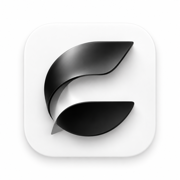
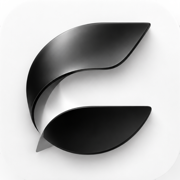
Update Premium pages and cropped Cally brand assets

diff --git a/privacy.html b/privacy.html
@@ -4,10 +4,10 @@
   <meta charset="utf-8">
   <meta name="viewport" content="width=device-width, initial-scale=1">
   <meta name="theme-color" content="#f7f7f5">
-  <meta name="description" content="How the Cally iPhone app handles your data: what your account stores, where it’s kept, who processes it, your rights and how to delete it. No ads, no tracking.">
+  <meta name="description" content="How Cally handles accounts, personal entries, optional Together groups, Premium purchases, Google ads, support correspondence and your privacy choices.">
   <title>Privacy Policy · Cally</title>
-  <link rel="icon" type="image/png" href="assets/favicon.png">
-  <link rel="apple-touch-icon" href="assets/apple-touch-icon.png">
+  <link rel="icon" type="image/png" href="assets/favicon-tile.png">
+  <link rel="apple-touch-icon" href="assets/cally-touch-icon.png">
   <link rel="stylesheet" href="assets/styles.css">
   <link rel="stylesheet" href="assets/brand.css">
   <link rel="manifest" href="site.webmanifest">
@@ -15,18 +15,20 @@
 </head>
 <body class="brand-refresh">
   <a class="skip-link" href="#main">Skip to content</a>
-  <header class="site-header"><div class="container nav"><a class="brand" href="index.html" aria-label="Cally home"><img src="assets/cally-icon.png" width="37" height="37" alt=""><span>CALLY</span></a><nav class="nav-links" aria-label="Main navigation"><a href="index.html#tour">The app</a><a href="privacy.html" aria-current="page">Privacy</a><a href="support.html">Support</a><a class="nav-contact" href="index.html#tour">Explore Cally <span aria-hidden="true">↗</span></a></nav></div></header>
+  <header class="site-header"><div class="container nav"><a class="brand" href="index.html" aria-label="Cally home"><img src="assets/cally-logo.png" width="37" height="37" alt=""><span>CALLY</span></a><nav class="nav-links" aria-label="Main navigation"><a href="index.html#tour">The app</a><a href="privacy.html" aria-current="page">Privacy</a><a href="support.html">Support</a><a class="nav-contact" href="index.html#tour">Explore Cally <span aria-hidden="true">↗</span></a></nav></div></header>
   <main class="container legal-shell" id="main">
-    <aside class="legal-aside"><p class="eyebrow">Your privacy</p><nav aria-label="On this page"><a href="#who-i-am">Who I am</a><a href="#what-s-stored-with-your-account">What’s stored with your account</a><a href="#what-stays-on-your-iphone">What stays on your iPhone</a><a href="#where-it-s-stored">Where it’s stored</a><a href="#services-cally-uses">Services Cally uses</a><a href="#how-it-s-used">How it’s used</a><a href="#who-can-see-it">Who can see it</a><a href="#icloud-backup">iCloud backup</a><a href="#face-id-and-passcode-lock">Face ID and passcode lock</a><a href="#exported-backups">Exported backups</a><a href="#deleting-your-data">Deleting your data</a><a href="#your-rights">Your rights</a><a href="#children">Children</a><a href="#apple-and-this-website">Apple and this website</a><a href="#changes">Changes</a><a href="#contact">Contact</a></nav><a class="back-link" href="index.html">← Back to Cally</a></aside>
+    <aside class="legal-aside"><p class="eyebrow">Your privacy</p><nav aria-label="On this page"><a href="#who-i-am">Who I am</a><a href="#what-s-stored-with-your-account">What’s stored with your account</a><a href="#what-stays-on-your-iphone">What stays on your iPhone</a><a href="#where-it-s-stored">Where it’s stored</a><a href="#services-cally-uses">Services Cally uses</a><a href="#ads">Ads and your choices</a><a href="#purchases">Purchases</a><a href="#how-it-s-used">How it’s used</a><a href="#who-can-see-it">Who can see it</a><a href="#icloud-backup">iCloud backup</a><a href="#face-id-and-passcode-lock">Face ID and passcode lock</a><a href="#exported-backups">Exported backups</a><a href="#deleting-your-data">Deleting your data</a><a href="#your-rights">Your rights</a><a href="#children">Children</a><a href="#apple-and-this-website">Apple and this website</a><a href="#changes">Changes</a><a href="#contact">Contact</a></nav><a class="back-link" href="index.html">← Back to Cally</a></aside>
     <div class="legal-main">
   <h1>Privacy Policy</h1>
-  <p class="meta">Effective October 31, 2026</p>
+  <p class="meta">Effective November 1, 2026</p>
 
   <div class="summary">
     <h2 class="eyebrow">In short</h2>
     <ul>
       <li>You sign in so your entries are saved to your account and sync across your iPhones.</li>
-      <li>Your account data is used for accounts, sync and security. No ads, no tracking, never sold.</li>
+      <li>Your personal entries are used for your account and sync. They are not sent to advertisers or sold.</li>
+      <li>The free version shows Google ads. Premium removes ads. Google processes device, advertising and diagnostic data as described below.</li>
+      <li>Together shares only the group information you choose to add, with people in that group.</li>
       <li>You can delete your account and all your entries anytime in Settings.</li>
     </ul>
   </div>
@@ -46,7 +48,9 @@
         <li><b>Your name</b>, only if Apple (on your first sign-in) or Google provides it.</li>
         <li><b>Your account ID</b> and which sign-in method you used: Apple, Google or email.</li>
         <li><b>Your entries:</b> the date, the amount, whether it’s expected income, unexpected income or an expense, and any category, income source or payment method you choose. The server also records when each entry was added and last changed, and its order within the day.</li>
-        <li><b>Your settings:</b> your currency and your list of income sources.</li>
+        <li><b>Your settings:</b> your currency, income sources, custom expense categories, and any monthly or category budgets you set.</li>
+        <li><b>Together, if you use it:</b> the group’s name, whether it is a shared budget or savings goal, its target amount and currency, invite code, memberships and chosen display names, and the date, amount, optional note and author of each group entry. Group members can also see each member’s Premium status.</li>
+        <li><b>Premium, if you subscribe:</b> the subscription product, renewal or expiry information, and App Store transaction identifiers. A purchase carries your Cally account ID so the server can link the subscription to your account. Apple handles billing; Cally does not receive your card details.</li>
       </ul>
       <p>The sign-in system also keeps a few details it needs to run your account:</p>
       <ul>
@@ -56,24 +60,26 @@
         <li>If you sign in with Apple, a token from Apple, used only to revoke Cally’s access if you delete your account.</li>
       </ul>
       <p>For security, the sign-in system and Supabase also keep logs, such as IP addresses and request times. Cally schedules its sign-in audit records for deletion daily once they are more than 7 days old, normally removing them within 8 days. When you delete your account, Cally also requests deletion of your associated sign-in audit records; cleanup failures can delay removal. Supabase’s other operational logs follow its platform retention settings.</p>
-      <p>Cally never asks for a password, your phone number, location, contacts, photos or bank details.</p>
+      <p>Cally does not ask for a password, your phone number, contacts, photos, bank details or permission to access your location. Google’s ad software may estimate a general area from an IP address, as explained below.</p>
     </section>
 
     <section id="what-stays-on-your-iphone">
       <h2>What stays on your iPhone</h2>
       <ul>
         <li>Whether the Face ID or passcode lock is on.</li>
-        <li>When you last exported a backup.</li>
+        <li>When you last exported a backup, and your chosen tab layout, app icon and appearance.</li>
+        <li>A cached Premium status, kept separately for your Cally account.</li>
         <li>A copy of your entries, so Cally opens and works offline. Changes you make offline sync when you’re back online.</li>
         <li>Your sign-in session, in the iPhone’s Keychain, so you stay signed in.</li>
+        <li>Google’s ad-consent settings. Google also processes the consent signals needed to honour your choices.</li>
       </ul>
-      <p>The lock setting and the export date are never sent to the server.</p>
+      <p>The lock setting, export date, tab layout and appearance choices are not sent to Cally’s server.</p>
     </section>
 
     <section id="where-it-s-stored">
       <h2>Where it’s stored</h2>
       <p>Your account and entries are stored and processed on Cally’s server, which runs on Supabase in the EU, in Frankfurt, Germany (Amazon Web Services, eu-central-1). For account storage and sync, the app connects to Cally’s Supabase project over HTTPS and requests the same region for server-function calls.</p>
-      <p>When you sign in with Apple or Google, you do it on Apple’s or Google’s own sign-in screen. The privacy policy and support links open in Safari.</p>
+      <p>The app also connects to Apple for Premium purchases and to Google’s ad and consent services in the free version. These services may process data outside the EU. When you sign in with Apple or Google, you do it on their own sign-in screens. Privacy and support links open in Safari.</p>
     </section>
 
     <section id="services-cally-uses">
@@ -81,24 +87,45 @@
       <ul>
         <li><b>Supabase</b> runs Cally’s database, sign-in and server functions, and stores your data in Frankfurt.</li>
         <li><b>Resend</b> sends the email sign-in codes, so it handles your email address.</li>
-        <li><b>Apple</b> handles Sign in with Apple, if you use it.</li>
-        <li><b>Google</b> handles Sign in with Google, if you use it.</li>
+        <li><b>Apple</b> handles Sign in with Apple and Premium billing, under <a href="https://www.apple.com/legal/privacy/" rel="noopener noreferrer">Apple’s privacy policy</a>.</li>
+        <li><b>Google</b> handles Sign in with Google and provides the Google AdMob advertising and consent software in the free version. See <a href="https://policies.google.com/privacy" rel="noopener noreferrer">Google’s privacy policy</a> and its <a href="https://developers.google.com/admob/ios/privacy/data-disclosure" rel="noopener noreferrer">ad SDK data disclosures</a>.</li>
         <li><b>ImprovMX</b> forwards messages sent to the support email address.</li>
         <li><b>Gmail, operated by Google,</b> receives and stores support correspondence.</li>
       </ul>
       <p>Some of these companies may process data outside the EU. When they do, the transfer is covered by safeguards the GDPR requires, such as the EU Standard Contractual Clauses.</p>
     </section>
 
+
+    <section id="ads">
+      <h2>Ads and your choices</h2>
+      <p>The free version can show a Google AdMob banner above the tab bar and an occasional full-screen ad after you save an entry and close the day. Full-screen ads do not appear in your first 24 hours and are limited to one every five minutes and three a day. Premium removes these ad placements.</p>
+      <ul>
+        <li><b>What Google processes.</b> Google’s ad and consent software may process your IP address and the general area it suggests, device and app information and identifiers, ads shown and tapped, product interactions, consent signals, and crash, performance and diagnostic information. Google uses this information to deliver and measure ads, operate its services and prevent fraud.</li>
+        <li><b>Your money stays out of ads.</b> Cally does not pass your personal entries, Together group entries, email address, name or Cally account ID to the ad SDK. Ads are not selected from your financial entries.</li>
+        <li><b>Non-personalized requests.</b> Cally requests non-personalized ads and does not ask for Apple’s permission to access the advertising identifier. This does not mean that the ad SDK collects no data; the processing above can still occur.</li>
+        <li><b>Your choices.</b> Where required, Google presents a consent form before ads can be requested. If Google requires a way to revisit those choices, Cally shows <b>Settings → Ad privacy choices</b>. You can change your choices there.</li>
+      </ul>
+      <p>Cally has no separate analytics service of its own. The Google SDK’s advertising and diagnostic processing follows Google’s policies and the choices available in its consent form.</p>
+    </section>
+
+    <section id="purchases">
+      <h2>Purchases and subscriptions</h2>
+      <p>Apple handles Premium payments and stores its own purchase records. Cally checks the subscription on the device and keeps a server record of its plan and validity so it can work with your Cally account on another iPhone.</p>
+      <p>A free trial is available only when Apple confirms that you are eligible. Each subscription group allows one introductory offer per person. The App Store shows the applicable price, trial and renewal terms before you confirm a purchase.</p>
+      <p>To cancel, use <b>Settings → Manage subscription</b> in Cally or your iPhone’s <b>Settings → [your name] → Subscriptions</b>. Deleting Cally or your Cally account does not cancel an Apple subscription.</p>
+    </section>
+
     <section id="how-it-s-used">
       <h2>How it’s used</h2>
-      <p>Cally uses account data to provide your account and keep your entries in sync, and security logs to protect the service. Under the GDPR, the legal basis for the account and sync is performance of a contract: Cally needs this data to provide the service you signed up for. If you contact support, I also use the information you send to answer your request.</p>
-      <p>Cally has no ads, analytics or tracking. It doesn’t profile you, doesn’t sell your data, and has no third-party SDKs for advertising or marketing.</p>
+      <p>Cally uses account data to provide your account, sync, optional Together groups and Premium access, and security logs to protect the service. Under the GDPR, the legal basis for these account services is performance of a contract: Cally needs this data to provide the features you choose to use. If you contact support, I also use the information you send to answer your request.</p>
+      <p>Google processes advertising and consent data for the free version as described above, with consent where required. Cally does not sell your personal financial entries or use them to target advertising.</p>
     </section>
 
     <section id="who-can-see-it">
       <h2>Who can see it</h2>
       <p>You, on every iPhone where you’re signed in, and anyone who can unlock and use those iPhones. To keep it from people who use your phone, turn on the lock.</p>
-      <p>No other Cally user can see your data. As the developer, I can access Cally’s server to keep it running, but I use your data only to provide your account and sync. Apart from the services above, I don’t share it with anyone.</p>
+      <p>If you create or join a Together group, its members can see that group’s details, chosen display names, membership and Premium status, and group entries. Your personal income and expense calendar and email address are not shared with the group. Share an invite code only with people you want to invite.</p>
+      <p>As the developer, I can access Cally’s server to operate and support these services. The service providers listed above process the data needed for their roles. I do not sell your account data.</p>
     </section>
 
     <section id="icloud-backup">
@@ -113,19 +140,20 @@
 
     <section id="exported-backups">
       <h2>Exported backups</h2>
-      <p>When you tap <b>Export</b> in Settings, Cally creates a JSON file with your entries and income sources and saves it wherever you choose in the Files app. The file is not encrypted. Once it’s saved, it’s yours: anyone you share it with can read it, and if you keep it in iCloud Drive or another cloud service, that service’s terms apply. <b>Import</b> reads the file you pick and adds its entries to your account, so they sync like any others.</p>
+      <p>When you tap <b>Export</b> in Settings, Cally creates a JSON file with your personal entries and settings and saves it wherever you choose in the Files app. Premium can also export your personal entries as a CSV spreadsheet. These exports do not include Together group data. Neither file is encrypted. Once it’s saved, it’s yours: anyone you share it with can read it, and if you keep it in iCloud Drive or another cloud service, that service’s terms apply. <b>Import</b> reads the file you pick and adds its entries to your account, so they sync like any others.</p>
     </section>
 
     <section id="deleting-your-data">
       <h2>Deleting your data</h2>
       <ul>
-        <li><b>Settings → Delete account</b> permanently deletes your account, entries and settings from Cally’s server, right away. Other iPhones signed in to the account are signed out the next time Cally connects on them (within an hour while it’s open), and their copies are deleted then. If you signed in with Apple, Apple asks you to confirm once more. Cally then attempts to revoke its Sign in with Apple access. Your Cally account is deleted even if that revocation fails.</li>
-        <li><b>Settings → Delete all entries</b> removes every entry and the income sources you added, on all your iPhones, and keeps your account.</li>
-        <li><b>Signing out</b> deletes the copy of your data on that iPhone. Your account stays.</li>
+        <li><b>Settings → Delete account</b> permanently deletes your account, personal entries and settings from Cally’s server, right away, along with your Together memberships and the group entries you added. Other iPhones signed in to the account are signed out the next time Cally connects on them (within an hour while it’s open), and their copies are deleted then. If you signed in with Apple, Apple asks you to confirm once more. Cally then attempts to revoke its Sign in with Apple access. Your Cally account is deleted even if that revocation fails.</li>
+        <li><b>Settings → Delete all entries</b> removes your personal entries and the income sources you added, on all your iPhones. It keeps your account, custom categories, budgets and Together groups.</li>
+        <li><b>Leaving a Together group</b> removes your membership. The entries you added stay under the display name you used, so the group’s totals still make sense; its owner can delete them. The last member leaving deletes the group and all its entries.</li>
+        <li><b>Signing out</b> deletes the copy of your account data on that iPhone. Your account stays.</li>
         <li><b>Deleting the app</b> removes Cally’s copy from your iPhone, but not your account. To delete your account, use Settings → Delete account first.</li>
       </ul>
       <p>When you delete an entry, one at a time or all at once, the server erases its date, amount, type, category, source and payment method when the deletion reaches it. Deletions made offline are sent when Cally reconnects. The server keeps only the entry’s ID and the time it was deleted, so your other iPhones know to remove it, and that goes too when you delete your account. Any copies in Supabase’s backups follow its backup retention settings.</p>
-      <p>Files you exported are separate copies. Delete those in the Files app.</p>
+      <p>Files you exported are separate copies. Delete those in the Files app. Cancel any Premium subscription separately through Apple; deleting your account does not stop subscription billing.</p>
     </section>
 
     <section id="your-rights">
@@ -135,7 +163,7 @@
         <li><b>See your data.</b> Your entries are in the app. Email me for a copy of everything stored with your account.</li>
         <li><b>Correct it.</b> Delete a wrong entry and add it again, or email me to correct anything else, such as your name.</li>
         <li><b>Delete it.</b> Use Settings → Delete account.</li>
-        <li><b>Take it with you.</b> Settings → Export saves your entries and income sources as a JSON file.</li>
+        <li><b>Take it with you.</b> Settings → Export saves your personal entries and settings as a JSON file. Premium can also export a CSV spreadsheet.</li>
         <li><b>Restrict or object to how it’s used.</b> Email me.</li>
         <li><b>Complain</b> to the Hellenic Data Protection Authority at <a href="https://www.dpa.gr" rel="noopener noreferrer">www.dpa.gr</a>.</li>
       </ul>

diff --git a/support.html b/support.html
@@ -4,10 +4,10 @@
   <meta charset="utf-8">
   <meta name="viewport" content="width=device-width, initial-scale=1">
   <meta name="theme-color" content="#f7f7f5">
-  <meta name="description" content="Help for Cally on iPhone: signing in, sign-in codes, using two iPhones, deleting your account, importing from the web app, currency, the lock and contact.">
+  <meta name="description" content="Help with Cally sign-in codes, Premium trials and subscriptions, Together groups, ads, backups, privacy choices and account deletion.">
   <title>Support · Cally</title>
-  <link rel="icon" type="image/png" href="assets/favicon.png">
-  <link rel="apple-touch-icon" href="assets/apple-touch-icon.png">
+  <link rel="icon" type="image/png" href="assets/favicon-tile.png">
+  <link rel="apple-touch-icon" href="assets/cally-touch-icon.png">
   <link rel="stylesheet" href="assets/styles.css">
   <link rel="stylesheet" href="assets/brand.css">
   <link rel="manifest" href="site.webmanifest">
@@ -15,9 +15,9 @@
 </head>
 <body class="brand-refresh">
   <a class="skip-link" href="#main">Skip to content</a>
-  <header class="site-header"><div class="container nav"><a class="brand" href="index.html" aria-label="Cally home"><img src="assets/cally-icon.png" width="37" height="37" alt=""><span>CALLY</span></a><nav class="nav-links" aria-label="Main navigation"><a href="index.html#tour">The app</a><a href="privacy.html">Privacy</a><a href="support.html" aria-current="page">Support</a><a class="nav-contact" href="index.html#tour">Explore Cally <span aria-hidden="true">↗</span></a></nav></div></header>
+  <header class="site-header"><div class="container nav"><a class="brand" href="index.html" aria-label="Cally home"><img src="assets/cally-logo.png" width="37" height="37" alt=""><span>CALLY</span></a><nav class="nav-links" aria-label="Main navigation"><a href="index.html#tour">The app</a><a href="privacy.html">Privacy</a><a href="support.html" aria-current="page">Support</a><a class="nav-contact" href="index.html#tour">Explore Cally <span aria-hidden="true">↗</span></a></nav></div></header>
   <main class="container legal-shell" id="main">
-    <aside class="legal-aside"><p class="eyebrow">A little help</p><nav aria-label="On this page"><a href="#account">How do I sign in?</a><a href="#code">I didn’t get the sign-in code</a><a href="#new-iphone">How do I use Cally on a new or second iPhone?</a><a href="#hide-my-email">What does Hide My Email do?</a><a href="#delete-account">How do I delete my account?</a><a href="#sign-out">What happens when I sign out?</a><a href="#web-app">How do I bring in my data from the Cally web app?</a><a href="#currency">How do I change the currency?</a><a href="#lock">How do I turn on the lock?</a><a href="#delete">How do I delete entries?</a><a href="#contact">How do I contact you?</a></nav><a class="back-link" href="index.html">← Back to Cally</a></aside>
+    <aside class="legal-aside"><p class="eyebrow">A little help</p><nav aria-label="On this page"><a href="#account">How do I sign in?</a><a href="#code">I didn’t get the sign-in code</a><a href="#new-iphone">How do I use Cally on a new or second iPhone?</a><a href="#hide-my-email">What does Hide My Email do?</a><a href="#premium">What does Premium include?</a><a href="#pricing">Premium prices and trials</a><a href="#subscriptions">Cancel or restore Premium</a><a href="#together">Using Together</a><a href="#ads">Ads and privacy choices</a><a href="#delete-account">How do I delete my account?</a><a href="#sign-out">What happens when I sign out?</a><a href="#web-app">How do I bring in my data from the Cally web app?</a><a href="#currency">How do I change the currency?</a><a href="#lock">How do I turn on the lock?</a><a href="#delete">How do I delete entries?</a><a href="#contact">How do I contact you?</a></nav><a class="back-link" href="index.html">← Back to Cally</a></aside>
     <div class="legal-main">
   <h1>Support</h1>
   <p class="meta">Help for Cally on iPhone (iOS 17 or later)</p>
@@ -64,10 +64,48 @@
       <p class="note">To reach the same account on another iPhone, continue with Apple there too, with the same Apple ID.</p>
     </section>
 
+    <section id="premium">
+      <h2>What does Premium include?</h2>
+      <p>Free includes personal income and expense logging, the month overview, account sync and JSON backups, with ads. Premium removes ads and adds Together, budgets, year views, more custom categories and income sources, a custom tab bar, CSV export and extra appearance choices.</p>
+      <p class="note">If Premium ends, your existing personal entries, categories, sources and budgets are kept. Features that require Premium become locked; your data is not deleted.</p>
+    </section>
+
+    <section id="pricing">
+      <h2>What does Premium cost?</h2>
+      <p>In the Greek App Store, Premium is <b>€4.99 per month</b> or <b>€24.99 per year</b>. Both plans offer a <b>one-month free trial</b> for eligible subscribers, followed by the selected plan’s recurring price.</p>
+      <p>Apple determines eligibility. You can redeem one introductory offer per subscription group, so switching from one Cally plan to the other does not create another free trial. If you are not eligible, Cally shows the regular price and a <b>Continue</b> button instead.</p>
+      <p class="note">Prices are localized by the App Store and may differ by country. Cally shows the current offer and renewal price before you continue, and Apple asks you to confirm the purchase. The subscription renews automatically unless you cancel.</p>
+    </section>
+
+    <section id="subscriptions">
+      <h2>How do I cancel or restore Premium?</h2>
+      <ul>
+        <li><b>Cancel or change a plan:</b> open <b>Settings → Manage subscription</b> in Cally, or your iPhone’s <b>Settings → [your name] → Subscriptions → Cally</b>.</li>
+        <li><b>Avoid the next charge:</b> cancel at least 24 hours before the trial or current subscription period ends. Apple shows your renewal date.</li>
+        <li><b>Restore:</b> use <b>Restore purchases</b> in Settings or <b>Restore</b> on the Premium page, signed in to the Apple Account that made the purchase.</li>
+      </ul>
+      <p class="note">Deleting the app or your Cally account does not cancel Premium. If Premium was purchased with another Apple Account, manage its billing with that account. Apple handles payment and refunds.</p>
+    </section>
+
+    <section id="together">
+      <h2>How does Together work?</h2>
+      <p>Open <b>☰ → Together</b> to create a shared budget or savings goal, or to join with a code. Choose the display name you want the group to see. Only entries added to that group are shared; your personal calendar and email address stay separate.</p>
+      <p>Creating a group requires Premium. Each member with Premium covers one member without it, and a group needs at least one Premium member. A group can have up to 10 members. If the Premium balance is no longer sufficient, the group keeps its history but cannot accept new entries until the balance is restored.</p>
+      <p>Share the invite code only with people you want in the group. When you leave, your entries stay under your chosen name; the group’s owner can delete them. If you delete your Cally account, the group entries you added are removed too. The last member leaving deletes the group.</p>
+      <p class="note">Together needs an internet connection. Personal entries can still be logged offline and sync when you reconnect. Personal JSON and CSV backups do not include Together group data.</p>
+    </section>
+
+    <section id="ads">
+      <h2>Why am I seeing ads?</h2>
+      <p>The free version can show a banner above the tab bar. An occasional full-screen ad can appear after you save an entry and close the day, after your first 24 hours and no more than once every five minutes or three times a day. Premium removes ads.</p>
+      <p>Cally requests non-personalized ads. It does not send your personal or Together entries, email address, name or Cally account ID to the ad SDK. Google still processes device, advertising, interaction and diagnostic information to provide the ads.</p>
+      <p>Where required, Google asks for consent before ads can be requested. If applicable, open <b>Settings → Ad privacy choices</b> to revisit those choices. See the <a href="privacy.html#ads">privacy policy</a> for details.</p>
+    </section>
+
     <section id="delete-account">
       <h2>How do I delete my account?</h2>
-      <p>Go to <b>Settings → Delete account</b> and confirm. This permanently deletes your account and all its entries, right away. Other iPhones signed in to it are signed out the next time Cally connects on them, and their copies are deleted. If you signed in with Apple, Apple asks you to confirm once more. Cally then attempts to revoke its Sign in with Apple access. Your Cally account is deleted even if that revocation fails.</p>
-      <p class="note">This can’t be undone, so export a backup first if you might want your entries later. Deleting the app doesn’t delete your account. If you sign in again after deleting your account, you start with a new, empty one.</p>
+      <p>Go to <b>Settings → Delete account</b> and confirm. This permanently deletes your account and personal entries, along with your Together memberships and the group entries you added. Other iPhones signed in to it are signed out the next time Cally connects on them, and their copies are deleted. If you signed in with Apple, Apple asks you to confirm once more. Cally then attempts to revoke its Sign in with Apple access. Your Cally account is deleted even if that revocation fails.</p>
+      <p class="note">This can’t be undone, so export a backup first if you might want your entries later. Deleting the app doesn’t delete your account. If you sign in again after deleting your account, you start with a new, empty one. Cancel Premium separately through Apple; account deletion does not stop subscription billing.</p>
     </section>
 
     <section id="sign-out">
@@ -100,7 +138,7 @@
       <h2>How do I delete entries?</h2>
       <ul>
         <li><b>One entry:</b> tap its day, then tap the × next to the entry. You can undo right after. It’s removed on all your iPhones.</li>
-        <li><b>All entries:</b> go to <b>Settings → Delete all entries</b> and confirm. This removes every entry and the income sources you added, on all your iPhones, but keeps your account. Export a backup first if you might need it.</li>
+        <li><b>All entries:</b> go to <b>Settings → Delete all entries</b> and confirm. This removes every entry and the income sources you added, on all your iPhones, but keeps your account, custom categories, budgets and Together groups. Export a backup first if you might need it.</li>
         <li><b>Everything, including your account:</b> see <a href="#delete-account">How do I delete my account?</a></li>
       </ul>
       <p class="note">Files you exported are separate copies. Delete those in the Files app.</p>

diff --git a/index.html b/index.html
@@ -4,7 +4,7 @@
   <meta charset="utf-8">
   <meta name="viewport" content="width=device-width, initial-scale=1">
   <meta name="theme-color" content="#f7f7f5">
-  <meta name="description" content="A calendar for your money. Cally brings income, expenses and a clearer view of your month together on iPhone.">
+  <meta name="description" content="A calendar for your money. Track personal income and expenses, share a goal with Together, and explore Cally Premium on iPhone.">
   <meta property="og:title" content="Cally — a calendar for your money">
   <meta property="og:description" content="A little less guessing. A clearer view of your everyday money. Made for iPhone.">
   <meta property="og:type" content="website">
@@ -15,8 +15,8 @@
   <meta property="og:image:alt" content="The official Cally banner: graphite sculptures in a silver-white studio.">
   <meta name="twitter:card" content="summary_large_image">
   <title>Cally — A calendar for your money</title>
-  <link rel="icon" type="image/png" href="assets/favicon.png">
-  <link rel="apple-touch-icon" href="assets/apple-touch-icon.png">
+  <link rel="icon" type="image/png" href="assets/favicon-tile.png">
+  <link rel="apple-touch-icon" href="assets/cally-touch-icon.png">
   <link rel="stylesheet" href="assets/styles.css">
   <link rel="stylesheet" href="assets/brand.css">
   <script src="assets/site.js" defer></script>
@@ -27,7 +27,7 @@
   <a class="skip-link" href="#main">Skip to content</a>
   <header class="site-header">
     <div class="container nav">
-      <a class="brand" href="index.html" aria-label="Cally home"><img src="assets/cally-icon.png" width="37" height="37" alt=""><span>CALLY</span></a>
+      <a class="brand" href="index.html" aria-label="Cally home"><img src="assets/cally-logo.png" width="37" height="37" alt=""><span>CALLY</span></a>
       <nav class="nav-links" aria-label="Main navigation"><a href="#tour">The app</a><a href="privacy.html">Privacy</a><a href="support.html">Support</a><a class="nav-contact" href="#availability">Explore Cally <span aria-hidden="true">↗</span></a></nav>
     </div>
   </header>
@@ -59,7 +59,7 @@
         <p class="stage-label">Actual app screens · Sample entries</p>
       </div>
     </section>
-    <div class="container principles" aria-label="Cally at a glance"><div class="principle"><span>01</span> A calendar, not a spreadsheet</div><div class="principle"><span>02</span> No ads. No tracking.</div><div class="principle"><span>03</span> Your entries, across your iPhones</div></div>
+    <div class="container principles" aria-label="Cally at a glance"><div class="principle"><span>01</span> A calendar, not a spreadsheet</div><div class="principle"><span>02</span> Free with ads. Premium without them.</div><div class="principle"><span>03</span> Your entries, across your iPhones</div></div>
     <section class="container tour" id="tour" aria-labelledby="tour-heading">
       <div class="section-heading"><div><p class="eyebrow">A closer look</p><h2 id="tour-heading">Start with a day.<br>See the whole picture.</h2></div><p>Just the details you need, in a format that already feels familiar.</p></div>
       <div class="tour-surface">
@@ -80,14 +80,24 @@
       <div class="section-heading"><div><p class="eyebrow">Quietly useful</p><h2 id="possibilities-heading">Less to manage.<br>More to understand.</h2></div><p>A few thoughtful details that make keeping track feel a little lighter.</p></div>
       <div class="feature-rows">
         <article class="feature-row"><span class="feature-number">01</span><h3>Pick up where you left off.</h3><p>Sign in with Apple, Google or an email code. Your entries, income sources and currency sync across your iPhones.</p></article>
-        <article class="feature-row"><span class="feature-number">02</span><h3>Keep going, even offline.</h3><p>Once you’re signed in, Cally keeps a copy on your iPhone. Add entries without a connection; your changes sync when you’re back online.</p></article>
-        <article class="feature-row"><span class="feature-number">03</span><h3>Keep a copy of your own.</h3><p>Export your entries and income sources as a JSON backup. Import it again later, or bring in a backup from the original Cally web app.</p></article>
+        <article class="feature-row"><span class="feature-number">02</span><h3>Keep going, even offline.</h3><p>Once you’re signed in, Cally keeps a copy on your iPhone. Log personal income and expenses offline; your changes sync when you’re back online.</p></article>
+        <article class="feature-row"><span class="feature-number">03</span><h3>Keep a copy of your own.</h3><p>Keep a JSON backup of your personal entries and settings. Import it again later, or bring in a backup from the original Cally web app. Premium also adds CSV export.</p></article>
         <article class="feature-row"><span class="feature-number">04</span><h3>Set it up your way.</h3><p>Choose your currency symbol, add your own income sources and turn on an optional Face ID or passcode lock. No bank connection required.</p></article>
+        <article class="feature-row"><span class="feature-number">05</span><h3>A goal you can share.</h3><p>Together brings a shared budget or savings goal into its own space. Invite people and add group entries, while your personal calendar stays private.</p></article>
       </div>
+    </section>
+    <section class="container premium-section" id="premium" aria-labelledby="premium-heading">
+      <div class="section-heading"><div><p class="eyebrow">Cally Premium</p><h2 id="premium-heading">A little more room.</h2></div><p>Without ads. With Together, budgets, year views, CSV export and more ways to make Cally yours.</p></div>
+      <div class="premium-plans" aria-label="Cally Premium plans in Greece">
+        <article class="premium-plan"><h3>Monthly</h3><p class="plan-price">€4.99 <span>/ month</span></p><p>1 month free for eligible subscribers, then €4.99 each month.</p></article>
+        <article class="premium-plan"><h3>Yearly</h3><p class="plan-price">€24.99 <span>/ year</span></p><p>1 month free for eligible subscribers, then €24.99 each year.</p></article>
+      </div>
+      <p class="premium-terms">Greek App Store prices. Both plans renew automatically unless you cancel. One introductory offer per subscription group; Apple determines eligibility. Local prices and the final terms appear in Cally and Apple’s purchase sheet before you confirm.</p>
+      <a class="text-link" href="support.html#subscriptions">Subscriptions, cancellation and restore <span aria-hidden="true">↗</span></a>
     </section>
     <section class="container privacy-band" aria-labelledby="privacy-heading">
       <div><p class="eyebrow">Your money is personal</p><h2 id="privacy-heading">It should stay<br>that way.</h2><a class="text-link" href="privacy.html">Read the privacy policy <span aria-hidden="true">↗</span></a></div>
-      <ul class="privacy-list"><li><span class="tick" aria-hidden="true">✓</span>No advertising, analytics or tracking in the app.</li><li><span class="tick" aria-hidden="true">✓</span>Account data is used for accounts, sync and security. Never sold.</li><li><span class="tick" aria-hidden="true">✓</span>No access to your bank, contacts or photos.</li><li><span class="tick" aria-hidden="true">✓</span>Export your entries or delete your account in Settings.</li></ul>
+      <ul class="privacy-list"><li><span class="tick" aria-hidden="true">✓</span>Your personal entries are never sent to advertisers.</li><li><span class="tick" aria-hidden="true">✓</span>Free includes Google ads; Premium removes ads. Your choices are explained in the privacy policy.</li><li><span class="tick" aria-hidden="true">✓</span>Together shares only what you add to a group. Your personal calendar stays separate.</li><li><span class="tick" aria-hidden="true">✓</span>Export your entries or delete your account in Settings.</li></ul>
     </section>
     <section class="container availability" id="availability" aria-labelledby="availability-heading">
       <p class="eyebrow">A calendar for your money</p><h2 id="availability-heading">Make room<br>for clarity.</h2>

diff --git a/assets/site.js b/assets/site.js
@@ -5,9 +5,9 @@
   const screens = {
     calendar: { number:'01 / 05', title:'Every day has a place.', text:'A salary on Monday. Dinner on Friday. Start with a date and give your income and expenses a place in the month. Your calendar brings it all together.', note:'Expected income, unexpected income and expenses. Separate, simple and easy to find.', file:'01-income-calendar.png', alt:'Cally Income screen showing an October calendar and monthly income totals.' },
     entry: { number:'02 / 05', title:'A few taps. Back to your day.', text:'Choose a day, enter an amount and add a category or payment method if you want. Cally keeps the small details together, without turning them into a big task.', note:'Add your own income sources. Delete an entry with a tap, with a moment to undo.', file:'03-add-expense.png', alt:'Cally Add Expense sheet with an amount, optional categories and payment methods.' },
-    overview: { number:'03 / 05', title:'See what you kept.', text:'Income, spending and the difference between them. Bring the month into focus with your net and savings rate, or switch to a year for a wider view.', note:'Compare periods and see your totals, daily averages and spending patterns.', file:'02-net-and-savings.png', alt:'Cally Overview showing monthly net, income, expenses and savings rate.' },
+    overview: { number:'03 / 05', title:'See what you kept.', text:'Income, spending and the difference between them. Bring the month into focus with your net and savings rate. Premium adds a full-year view for a wider perspective.', note:'Compare periods and see your totals, daily averages and spending patterns.', file:'02-net-and-savings.png', alt:'Cally Overview showing monthly net, income, expenses and savings rate.' },
     spending: { number:'04 / 05', title:'Follow the little things.', text:'Groceries, bills, a coffee on the way home. See how your spending adds up by category and payment method, so the details make sense at a glance.', note:'Your entries create the picture. Cally does not connect to your bank account.', file:'04-spending-categories.png', alt:'Cally spending breakdown with categories, amounts and percentages.' },
-    flow: { number:'05 / 05', title:'Notice the rhythm.', text:'Some days bring money in. Others take it out. The cash-flow chart puts those moments side by side, across a month or a full year.', note:'Tap a bar in the app for a closer look at that day or month.', file:'05-cash-flow.png', alt:'Cally cash-flow chart showing incoming and outgoing amounts across October.' }
+    flow: { number:'05 / 05', title:'Notice the rhythm.', text:'Some days bring money in. Others take it out. The cash-flow chart puts those moments side by side across a month, or a full year with Premium.', note:'Tap a bar in the app for a closer look at that day or month.', file:'05-cash-flow.png', alt:'Cally cash-flow chart showing incoming and outgoing amounts across October.' }
   };
   function select(tab, focus = false) {
     const screen = screens[tab.dataset.tour];

diff --git a/assets/brand.css b/assets/brand.css
@@ -66,3 +66,6 @@ body.brand-refresh {
 @media print{.brand-experience{display:none}.brand-refresh .legal-main .summary,.brand-refresh .legal-main .contact{background:#fff;color:#101010}.brand-refresh .legal-main .contact p{color:#414141}}
 
 .brand-refresh .footer-caption{margin:0;font-size:12px;line-height:1.6;color:var(--muted)}
+
+/* Premium plans use the same neutral surfaces and show the full renewal price. */
+.premium-section{padding-bottom:100px}.premium-plans{display:grid;grid-template-columns:1fr 1fr;gap:22px}.premium-plan{padding:30px;border:1px solid var(--line);border-radius:26px;background:rgba(255,255,255,.65)}.premium-plan h3{font-size:14px;line-height:1.5;font-weight:650;margin:0 0 18px}.premium-plan .plan-price{font-size:38px;line-height:1.15;letter-spacing:-.045em;color:var(--ink);margin:0 0 18px;font-weight:600}.premium-plan .plan-price span{font-size:13px;letter-spacing:0;font-weight:450;color:var(--body)}.premium-plan>p:not(.plan-price){font-size:13px;line-height:1.75;color:var(--body);margin:0;max-width:330px}.premium-terms{font-size:11px;line-height:1.85;color:var(--muted);max-width:840px;margin:22px 0 10px}.premium-section>.text-link{font-size:12px}@media(max-width:800px){.premium-section{padding-bottom:80px}.premium-plan{padding:25px}}@media(max-width:580px){.premium-section{padding-bottom:70px}.premium-plans{grid-template-columns:1fr;gap:14px}.premium-plan{padding:25px;border-radius:23px}.premium-plan h3{margin-bottom:14px}.premium-plan .plan-price{font-size:34px;margin-bottom:14px}.premium-terms{font-size:10px;line-height:1.8}}

diff --git a/continue/index.html b/continue/index.html
@@ -62,7 +62,7 @@
     else ready();
   })();
   </script>
-  <link rel="icon" type="image/png" href="../assets/favicon.png">
+  <link rel="icon" type="image/png" href="../assets/favicon-tile.png">
   <link rel="stylesheet" href="../assets/styles.css">
   <link rel="stylesheet" href="../assets/brand.css">
   <style>
@@ -72,7 +72,7 @@
 <body class="brand-refresh">
   <main class="code-page">
     <div class="code-wrap">
-      <a class="brand code-brand" href="../index.html" aria-label="Cally home"><img src="../assets/cally-icon.png" width="37" height="37" alt=""><span>CALLY</span></a>
+      <a class="brand code-brand" href="../index.html" aria-label="Cally home"><img src="../assets/cally-logo.png" width="37" height="37" alt=""><span>CALLY</span></a>
       <div class="code-card">
         <div id="code-valid" hidden>
           <p class="eyebrow">Back to your calendar</p>
